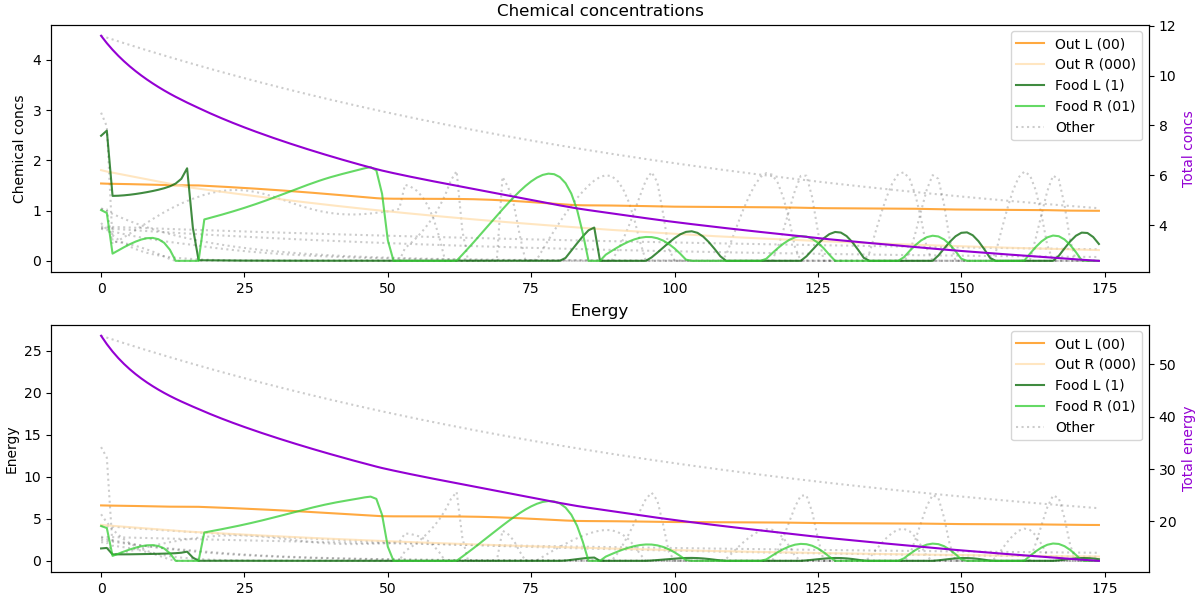
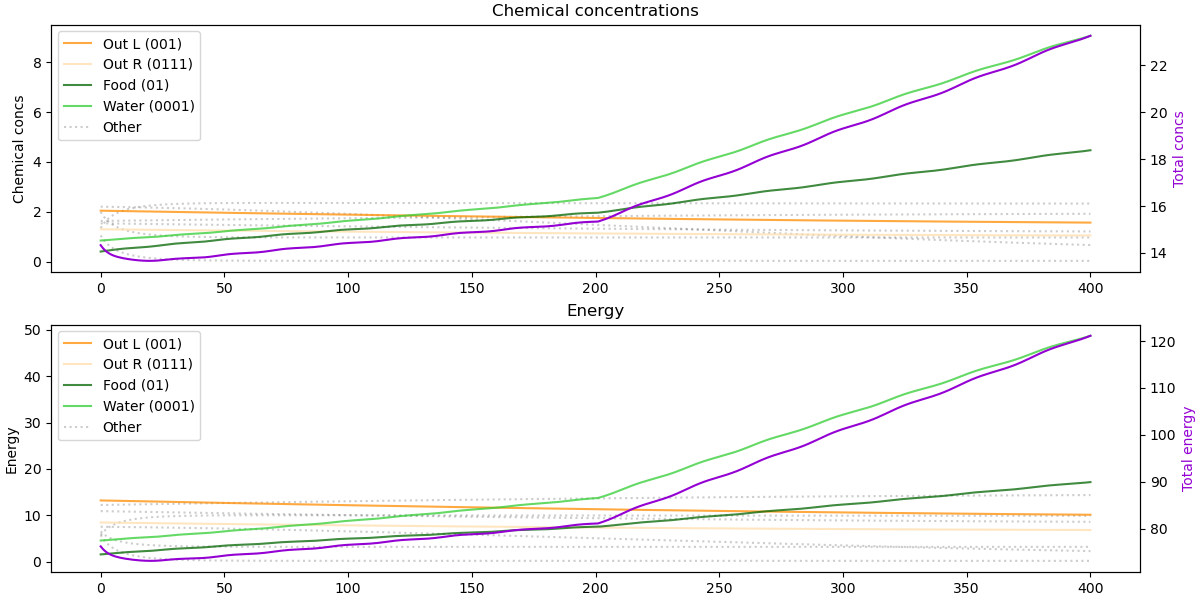
no battery unsuccessful

diff --git a/diem/Animat.py b/diem/Animat.py
@@ -6,11 +6,17 @@ from Network import Network
 from graphviz import Digraph
 from globals import DT
 
+def get_consumption(animat_x, animat_y, obj_x, obj_y):
+  sig = 0.4
+  mu = 0
+  dist = np.sqrt((obj_x - animat_x)**2 + (obj_y - animat_y)**2)
+  return 1./(np.sqrt(2.*np.pi)*sig)*np.exp(-np.power((dist - mu)/sig, 2.)/2)
+
 class Animat:
 
   FULL_BATTERY = 1
   DRAIN_RATE = 0.5
-  MAX_LIFE = 16
+  MAX_LIFE = 8
   RADIUS = 0.05
   SENSOR_ANGLES = [math.pi/4, -math.pi/4]
 
@@ -53,7 +59,7 @@ class Animat:
 
     for objType in EnvObjectTypes:
       for obj in env.objects[objType.value]:
-        consumptions[objType.value] += ((obj.x - self.x)**2 + (obj.y - self.y)**2)**(1/2)
+        consumptions[objType.value] += get_consumption(self.x, self.y, obj.x, obj.y)
       self.consumption_hist[objType.value].append(consumptions[objType.value])
 
     left_out, right_out = self.controller.get_outputs(consumptions)
@@ -89,16 +95,17 @@ class Animat:
 
 
   def evaluate(self, env):
-    for _ in range(math.floor(Animat.MAX_LIFE / DT)):
+    for i in range(math.floor(Animat.MAX_LIFE / DT)):
       self.prepare(env)
       self.update()
+      env.update(i)
       if not self.alive:
         break
 
   def graph(self):
     dot = Digraph(comment='chem', engine='neato')
 
-    label = ['OUT LEFT', 'OUT RIGHT', 'FOOD LEFT', 'FOOD RIGHT', 'WATER LEFT', 'WATER RIGHT']
+    label = ['OUT LEFT', 'OUT RIGHT', 'FOOD', 'WATER']
 
     for i, chem in enumerate(self.controller.chemicals):
       atts = { 'fontsize': '10'}
@@ -126,20 +133,6 @@ def test_animat_trial(env, controller=None, show=True, save=False, fname=''):
   else:
     animat = Animat(controller)
   animat.evaluate(env)
-
-  # type_colors = ['g', 'b', 'r']
-  # sens_motor_subs = plt.figure(constrained_layout=True, figsize=(9,6)).subplots(2, 1)
-  # sens_motor_subs[0].set_title('Left')
-  # sens_motor_subs[1].set_title('Right')
-  # for side in Sides:
-  #   sens_motor_subs[side.value].plot(animat.motor_hist[side.value], label=f'MOTOR', color='grey')
-  # for encounter in animat.encountered:
-  #   for side in Sides:
-  #     sens_motor_subs[side.value].axvline(x=encounter['time'], color=type_colors[encounter['type']], linestyle=':')
-  #     sens_motor_subs[side.value].legend()
-
-  # if save:
-  #   plt.savefig(f'plot-sensorimotors_{fname}')
 
   chem_colors = ['darkorange','navajowhite','darkgreen','limegreen','darkblue','blue']
   chem_labels = ['Out L','Out R','Food','Water']
@@ -175,17 +168,18 @@ def test_animat_trial(env, controller=None, show=True, save=False, fname=''):
   if save:
     plt.savefig(f'plot-chems_{fname}')
 
-  lifetime = plt.figure(constrained_layout=True, figsize=(10,5)).subplots(1,2)
+  lifetime = plt.figure(constrained_layout=True, figsize=(10,5)).subfigures(1,2)
 
-  lifetime[0].set_title('Trajectory')
-  lifetime[0].set_aspect('equal')
-  lifetime[0].set_xlim(Env.MIN_X, Env.MAX_X)
-  lifetime[0].set_ylim(Env.MIN_Y, Env.MAX_Y)
-  lifetime[0].plot(animat.x_hist, animat.y_hist, 'ko', ms=1, alpha=0.5)
-  lifetime[0].plot(animat.x_hist, animat.y_hist, ms=1, alpha=0.1)
-  lifetime[0].add_patch(plt.Circle((animat.x_hist[0], animat.y_hist[0]), Animat.RADIUS, color='black', fill=False))
-  lifetime[0].add_patch(plt.Circle((animat.x, animat.y), Animat.RADIUS, color='black'))
-  env.plot(lifetime[0])
+  trajectory = lifetime[0].subplots()
+  trajectory.set_title('Trajectory')
+  trajectory.set_aspect('equal')
+  trajectory.set_xlim(Env.MIN_X, Env.MAX_X)
+  trajectory.set_ylim(Env.MIN_Y, Env.MAX_Y)
+  trajectory.plot(animat.x_hist, animat.y_hist, 'ko', ms=1, alpha=0.5)
+  trajectory.plot(animat.x_hist, animat.y_hist, ms=1, alpha=0.1)
+  trajectory.add_patch(plt.Circle((animat.x_hist[0], animat.y_hist[0]), Animat.RADIUS, color='black', fill=False))
+  trajectory.add_patch(plt.Circle((animat.x, animat.y), Animat.RADIUS, color='black'))
+  env.plot(trajectory)
 
   type_colors = ['g', 'b', 'r']
   motor_subs = lifetime[1].subplots(2,1)
@@ -193,9 +187,9 @@ def test_animat_trial(env, controller=None, show=True, save=False, fname=''):
   motor_subs[1].set_title('Right')
   for side in Sides:
     motor_subs[side.value].plot(animat.motor_hist[side.value], label=f'MOTOR', color='grey')
-  for encounter in animat.encountered:
+  for consumed in env.consumed:
     for side in Sides:
-      motor_subs[side.value].axvline(x=encounter['time'], color=type_colors[encounter['type']], linestyle=':')
+      motor_subs[side.value].axvline(x=consumed.consume_time, color=type_colors[EnvObjectTypes[consumed.type].value], linestyle=':')
       motor_subs[side.value].legend()
   
 

diff --git a/diem/Network.py b/diem/Network.py
@@ -16,9 +16,15 @@ def rand_formula(min_len = 4, max_len = 4):
     formula += str(NETWORK_RNG.integers(2))
   return formula
 
-def add_noise(value, max):
+def add_noise(value, max, min = 0):
   if NETWORK_RNG.random() < MUTATION_RATE:
-    return max - abs((value + NETWORK_RNG.normal(loc=0, scale=max*MUTATION_RATE)) % (2*max) - max)
+    new_value = (value + NETWORK_RNG.normal(loc=0, scale=max*MUTATION_RATE))
+    if new_value > max:
+      return max - (new_value - max)
+    elif new_value < min:
+      return min + (min - new_value)
+    else:
+      return new_value
   else:
     return value
 
@@ -29,11 +35,13 @@ class Chemical:
 
   INIT_POTENTIAL_MAX = 7.5
   INIT_INITIAL_CONC_MAX = 2.0
-  INIT_DECAY_MAX = 1.0
+  INIT_DECAY_MIN = 1.0
+  INIT_DECAY_MAX = 10.0
 
   FORMULA_LEN_MAX = 4
   POTENTIAL_MAX = 7.5
   INITIAL_CONC_MAX = 5.0
+  DECAY_MIN = 1.0
   DECAY_MAX = 10.0
   
   def __init__(self, formula):
@@ -42,7 +50,9 @@ class Chemical:
     self.initial_conc = NETWORK_RNG.random() * Chemical.INIT_INITIAL_CONC_MAX
     self.conc = self.initial_conc
     self.dconc = 0
-    self.decay = NETWORK_RNG.random() * Chemical.INIT_DECAY_MAX
+    # TODO uncomment
+    # self.decay = NETWORK_RNG.random() * (Chemical.INIT_DECAY_MAX - Chemical.INIT_DECAY_MIN) + Chemical.INIT_DECAY_MIN
+    self.decay = 0
 
     self.hist = [self.initial_conc]
   
@@ -69,7 +79,8 @@ class Chemical:
   def mutate(self):
     self.potential = add_noise(self.potential, Chemical.POTENTIAL_MAX)
     self.initial_conc = add_noise(self.initial_conc, Chemical.INITIAL_CONC_MAX)
-    self.decay = add_noise(self.decay, Chemical.DECAY_MAX)
+    # TODO uncomment
+    # self.decay = add_noise(self.decay, Chemical.DECAY_MAX, Chemical.DECAY_MIN)
     self.conc = self.initial_conc
     self.dconc = 0
 
@@ -126,8 +137,8 @@ class Reaction:
 
 class Network:
 
-  N_INIT_CHEMICALS = 6
-  N_INIT_REACTIONS = 6
+  N_INIT_CHEMICALS = 4
+  N_INIT_REACTIONS = 4
 
   OUTPUT_LEFT = 0
   OUTPUT_RIGHT = 1

diff --git a/diem/Env.py b/diem/Env.py
@@ -1,5 +1,8 @@
+import copy
 import numpy as np, matplotlib.pyplot as plt, math
 from enum import Enum
+
+from globals import DT
 
 class EnvObjectTypes(Enum):
   FOOD = 0
@@ -13,11 +16,14 @@ class ConsumableTypes(Enum):
 class EnvObject:
 
   RADIUS = 0.05
-  DECAY = 0.01
+  DECAY = 0.25
+  CONC_MAX = 1
 
   def __init__(self, type, rstate, loc = None):
     self.type = type
+    self.conc = EnvObject.CONC_MAX
     self.rstate = np.random.default_rng(rstate)
+    self.consume_time = None
 
     if loc is None:
       self.x = self.rstate.random() - 0.5
@@ -33,6 +39,7 @@ class EnvObject:
     return 'type: {}, x: {}, y: {}'.format(self.type, self.x, self.y)
   
   def reset(self):
+    self.conc = EnvObject.CONC_MAX
     self.x = self.rstate.random() - 0.5
     self.y = self.rstate.random() - 0.5
 
@@ -48,6 +55,17 @@ class Env:
     self.rstate = np.random.default_rng(rstate)
     self.objects = [ [ EnvObject(type=str(type.name), rstate=self.rstate) for i in range(Env.N_OBJECTS[type.value]) ] for type in EnvObjectTypes ]
     self.consumed = []
+
+  def update(self, i):
+    for type in self.objects:
+      for obj in type:
+        if obj.conc <= 0:
+          obj_copy = copy.deepcopy(obj)
+          obj_copy.consume_time = i
+          self.consumed.append(obj_copy)
+          obj.reset()
+        else:
+          obj.conc -= EnvObject.DECAY * DT
   
   def plot(self, axis):
     colors = ['g', 'b', 'r']

diff --git a/diem/__main__.py b/diem/__main__.py
@@ -6,7 +6,7 @@ from Animat import test_animat_trial
 if __name__ == '__main__':
 
   BATCHES = 1
-  BATCH_SIZE = 100
+  BATCH_SIZE = 20
 
   highest_fitness = 0
   pop = Population()
